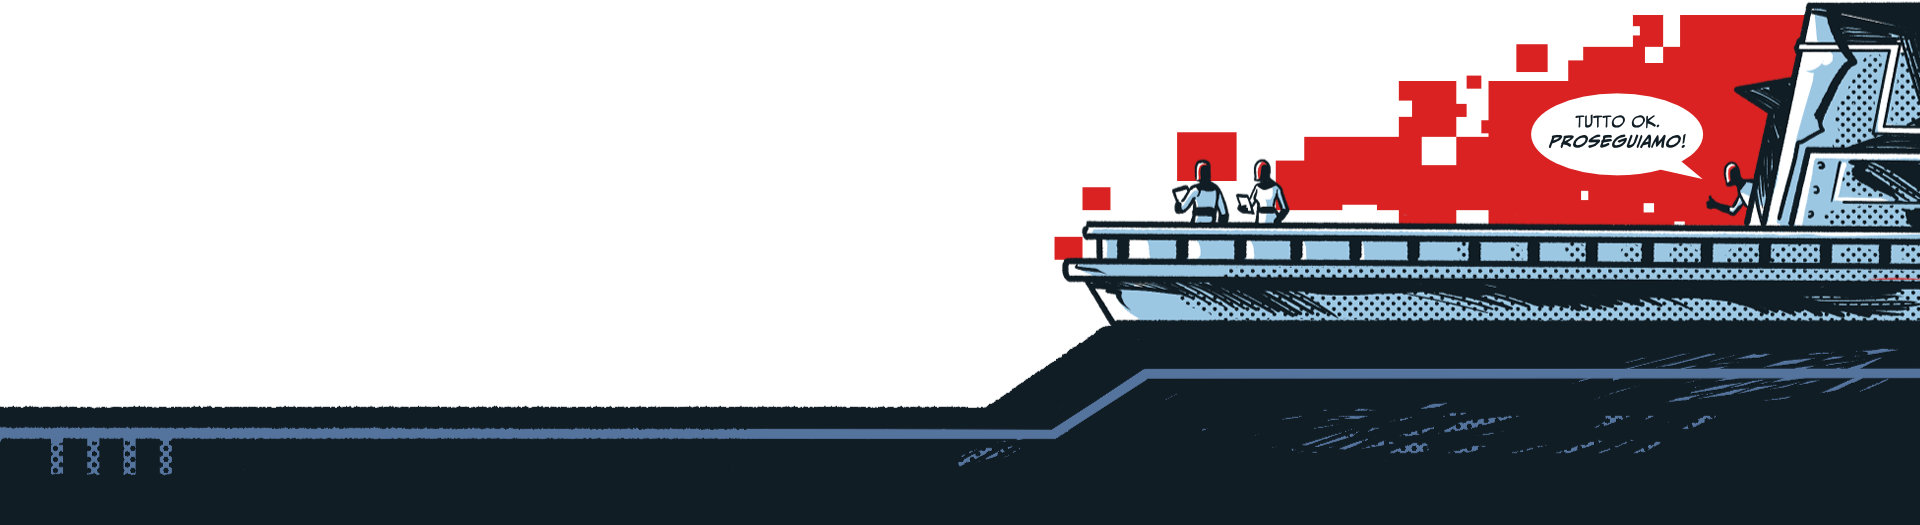
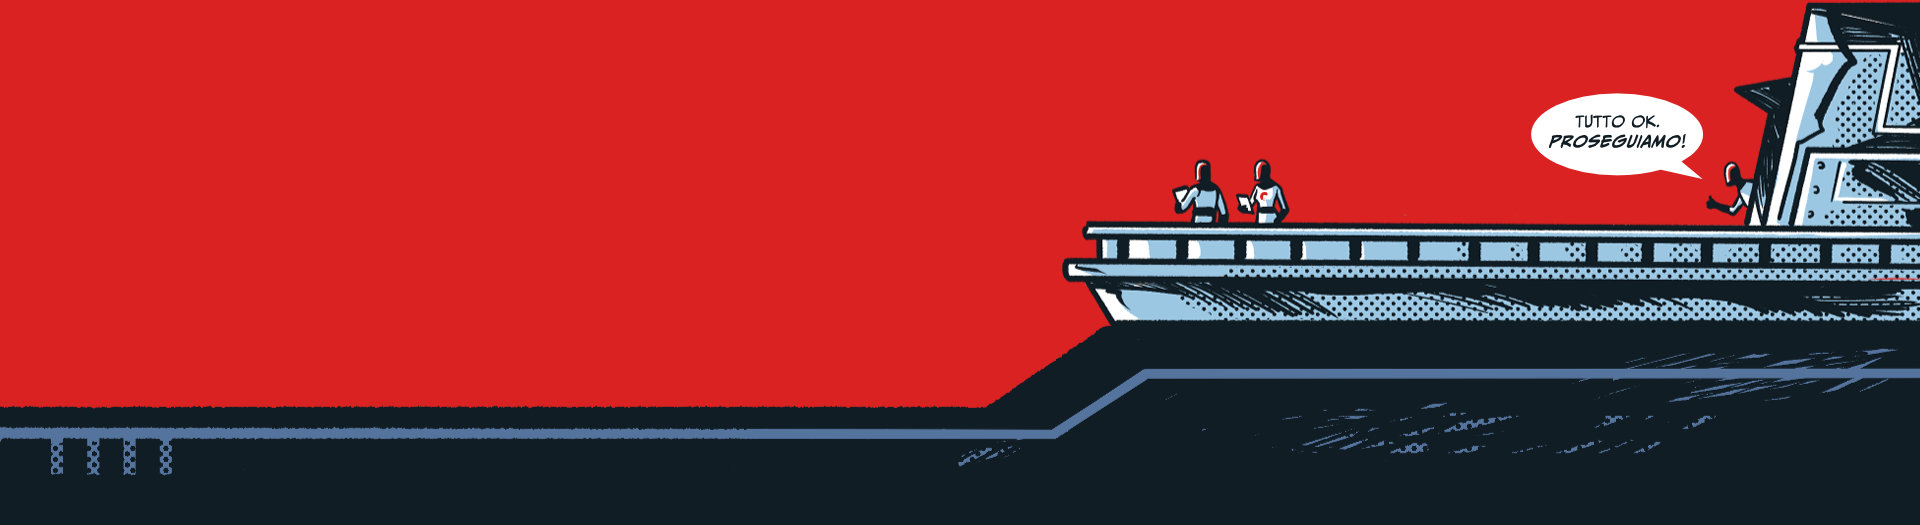
tailor red

diff --git a/src/components/homeWide/homeWide.tsx b/src/components/homeWide/homeWide.tsx
@@ -75,7 +75,7 @@ const HomeWide = () => {
           <img className="" src={appleFooter} alt=""/>
         </div>
       </div>
-      <div className='cp-home-wide__section cp-home-wide__section__tailor'>
+      <div className='cp-home-wide__section cp-home-wide__section--red cp-home-wide__section__tailor'>
         <div className='cp-home-wide__section__tailor__header'>
           <img className="" src={tailorHeader} alt=""/>
         </div>

diff --git a/src/scss/_home-wide.scss b/src/scss/_home-wide.scss
@@ -10,6 +10,14 @@ $prefix: cp-home-wide;
 
   &__section {
 
+    &--red {
+      background-color: #DA2222;
+
+      & span {
+        color: $main-light;
+      }
+    }
+
     & h1 {
 
       @include type-setting(3, 2, 1);
